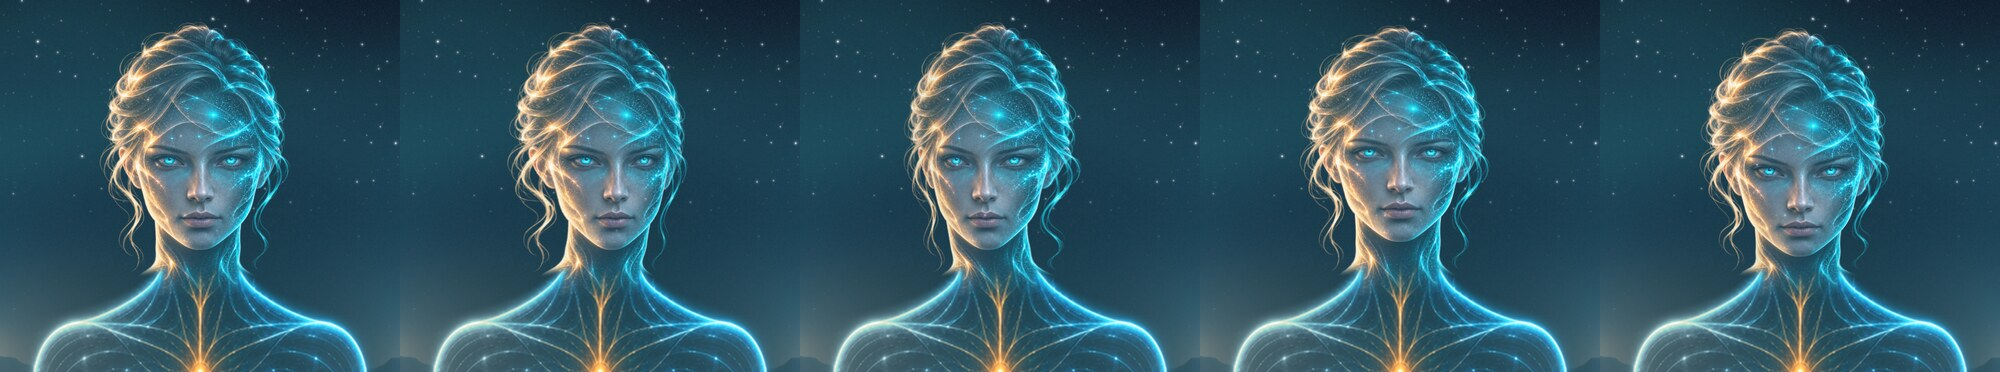
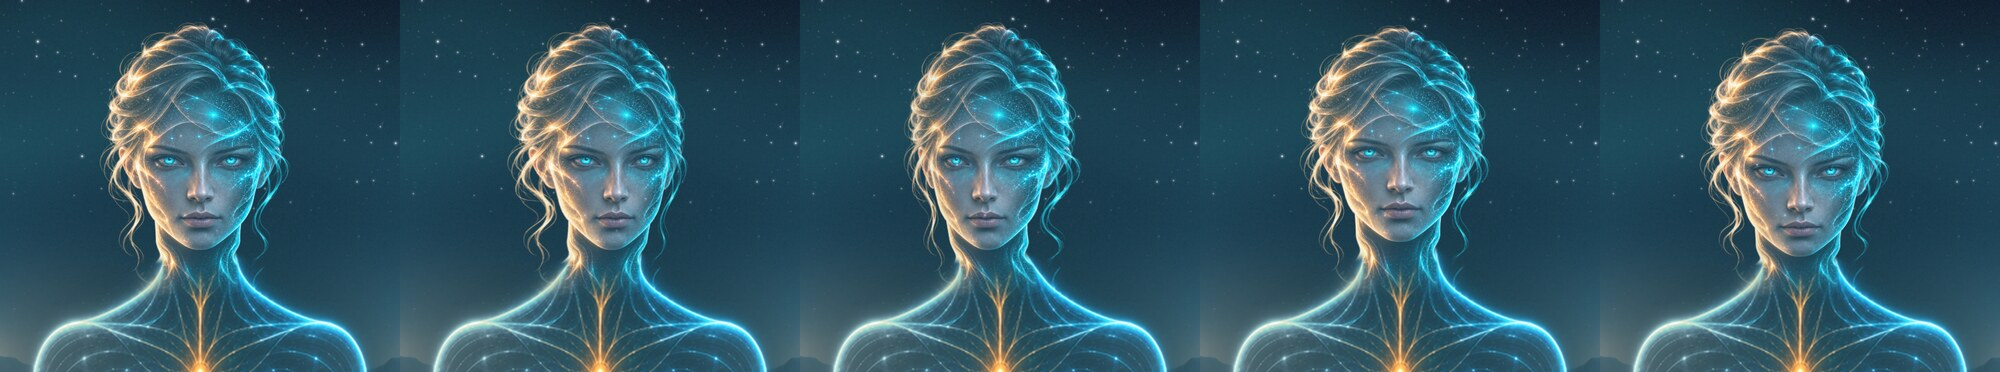
N7 visual trial: one continuous H01 neck, no bust remnant beside it
Claude-Session: https://claude.ai/code/session_01RQ1QWM1ro54vsfywgD43Eu

diff --git a/tools/n7_apex_preview/prepare_h01_figure.py b/tools/n7_apex_preview/prepare_h01_figure.py
@@ -61,7 +61,8 @@ def main():
     # 1. Remove the approved line-art head; keep its neck and shoulders.
     #    Its loose strands beside the neck go too: H01 brings its own.
     #    The cut follows the shoulder slope, just above its contour line.
-    keep_from = 204.0 + np.interp(dx, [28, 35, 45, 60, 100, 160], [0, 12, 22, 31, 45, 60])
+    #    It stays clear of that contour so the shoulder lines keep rising into the neck.
+    keep_from = 204.0 + np.interp(dx, [28, 40, 50, 62, 100, 160], [0, 3, 11, 18, 36, 56])
     body_keep = smooth(-4, 4, uy - keep_from)
     body *= body_keep[..., None]
 
@@ -69,7 +70,9 @@ def main():
     #    Carry a restrained warm key onto the left shoulder lines only.
     lum = body.max(axis=2, keepdims=True)
     warm = lum * np.array([1.0, 0.74, 0.40], np.float32)
-    amount = (smooth(165, 60, ux) * (0.50 - 0.30 * smooth(215, 430, uy)))[..., None]
+    amount = smooth(165, 60, ux) * (0.50 - 0.30 * smooth(215, 430, uy))
+    #    Stronger at the left of the neck base, where H01's warm rim hands over to the body line.
+    amount = np.clip(amount + 0.45 * np.exp(-(((ux - 125) / 22) ** 2 + ((uy - 226) / 16) ** 2)), 0, 0.9)[..., None]
     cyanish = (body[..., 2:3] > body[..., 0:1] * 1.15).astype(np.float32)
     body = body * (1 - amount * cyanish) + warm * amount * cyanish
 
@@ -90,7 +93,7 @@ def main():
     # 4. One neck. Below the chin only, the H01 neck is narrowed sideways so
     #    its own warm and cool rim lines run into the body's neck outline
     #    (half-width 34 -> 26.5 units). The face and chin are not warped.
-    ramp = smooth(196, 216, uy)
+    ramp = smooth(192, 207, uy)
     knots_out = np.array([0, 12, 26.5, 46, 400], np.float32)
     knots_src = np.array([0, 12, 34.0, 46, 400], np.float32)
     src_dx = np.interp(dx, knots_out, knots_src)
@@ -108,6 +111,10 @@ def main():
     neck_half = 26.5 + 9.0 * smooth(226, 246, uy)
     inside_neck = 1 - smooth(neck_half + 1.0, neck_half + 5.0, dx)
     fade = (1 - smooth(210, 240, uy)) * (1 - smooth(212, 222, uy) * (1 - inside_neck))
+    #    Nothing of H01's flaring bust may stick out beside the neck base; only its
+    #    loose hair, further out, is kept there.
+    flare = smooth(205, 212, uy) * smooth(neck_half + 1.0, neck_half + 5.0, dx) * (1 - smooth(44, 48, dx))
+    fade *= 1 - flare
     out = body * (1 - alpha * fade)[..., None] + warped[..., :3] * fade[..., None]
 
     image = Image.fromarray((np.clip(out, 0, 1) * 255 + 0.5).astype(np.uint8), "RGB")

diff --git a/tools/n7_apex_preview/build_apex_preview.py b/tools/n7_apex_preview/build_apex_preview.py
@@ -197,7 +197,7 @@ def main():
     if isolated:
         # Visual trial: the designed N7 environment and the H01 second face option.
[3 lines of base64/hex data omitted]
             data=(overlay/"assets"/name).read_bytes()
             if hashlib.sha256(data).hexdigest()!=digest: raise RuntimeError("wrong visual asset "+name)
             (out/"public"/name).write_bytes(data)

diff --git a/docs/validation/n7-visual-h01.md b/docs/validation/n7-visual-h01.md
@@ -12,7 +12,7 @@ H01 is not a new renderer. `prepare_h01_figure.py` composes the committed, owner
 
 - Turning: a realistic face shows any warping, so with H01 the rig uses a flatter face plate (`faceRelief`): eyes, nose and mouth turn as one piece and the curvature moves to the sides under the hair. The approved N7 face keeps its original volume exactly.
 - Proportion: uniform scale so hair top and chin land on the approved head's own points (y 20 and 200 of 480). Face width comes out at 95 units against 90 for the approved face. The face and chin are not warped.
-- One neck: below the chin only, the H01 neck is narrowed sideways (half-width 34 → 26.5 units) so its warm and cool rim lines run into the body's neck outline, then the skin fades into the body's neck. Its cut-off bust edge is not shown. The approved line-art head and its loose strands are removed; neck and shoulders are kept.
+- One neck: below the chin only, the H01 neck is narrowed sideways (half-width 34 → 26.5 units, complete by the neck base) so its warm and cool rim lines run into the body's neck outline, then the skin fades into the body's neck. Its cut-off bust edge is not shown: an owner-reported remnant of it sticking out at the left of the neck base was removed, and the body's shoulder lines now rise uninterrupted into the neck, with a warm hand-over where H01's left rim meets the body line (`local-h01-neck-detail.jpg`). The approved line-art head and its loose strands are removed; neck and shoulders are kept.
 - Light and colour: H01's blue is turned 6° toward N7 cyan and its orange 5° toward N7 gold; the left shoulder lines take a restrained warm key to match H01's warm-left, cool-right lighting.
 
 No image generation was used. Limits: the same as the approved face — only a front view exists, so the turn stays bounded (±0.34 rad) and there is no profile. The figure is screen-blended, so the realistic H01 skin is slightly translucent over bright scenery; the new environment dissolves into dark mist behind the figure for that reason.
